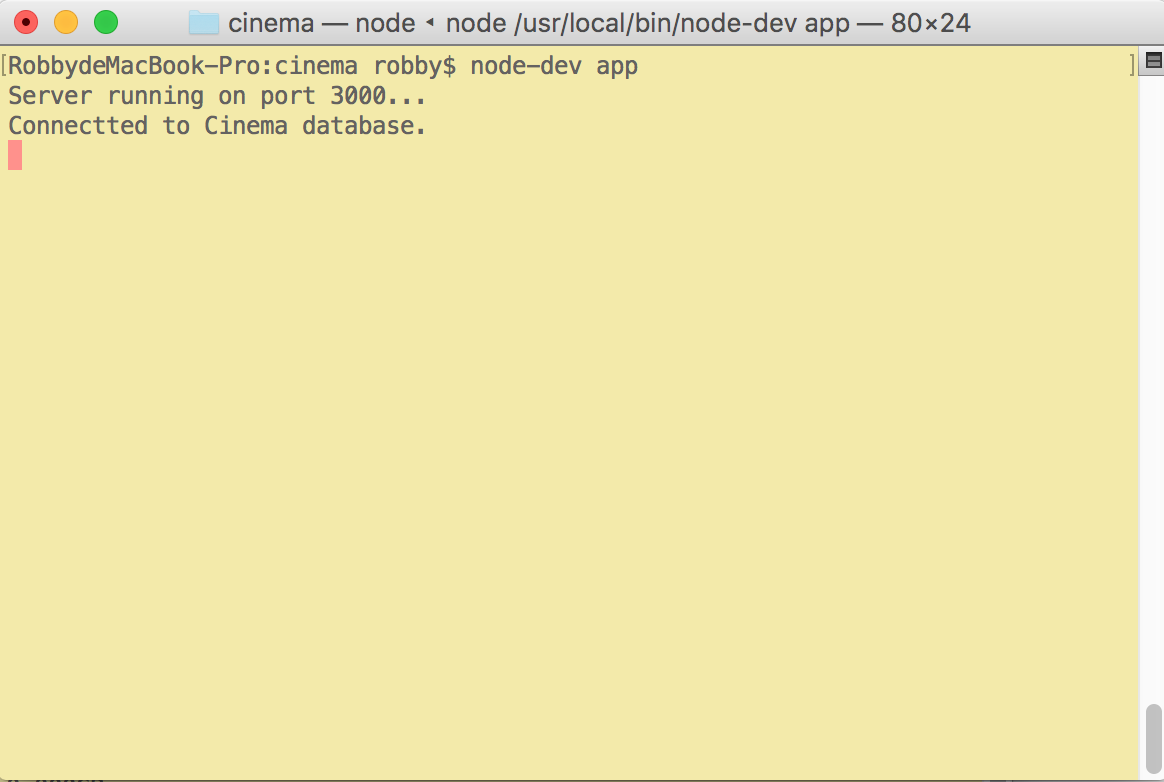
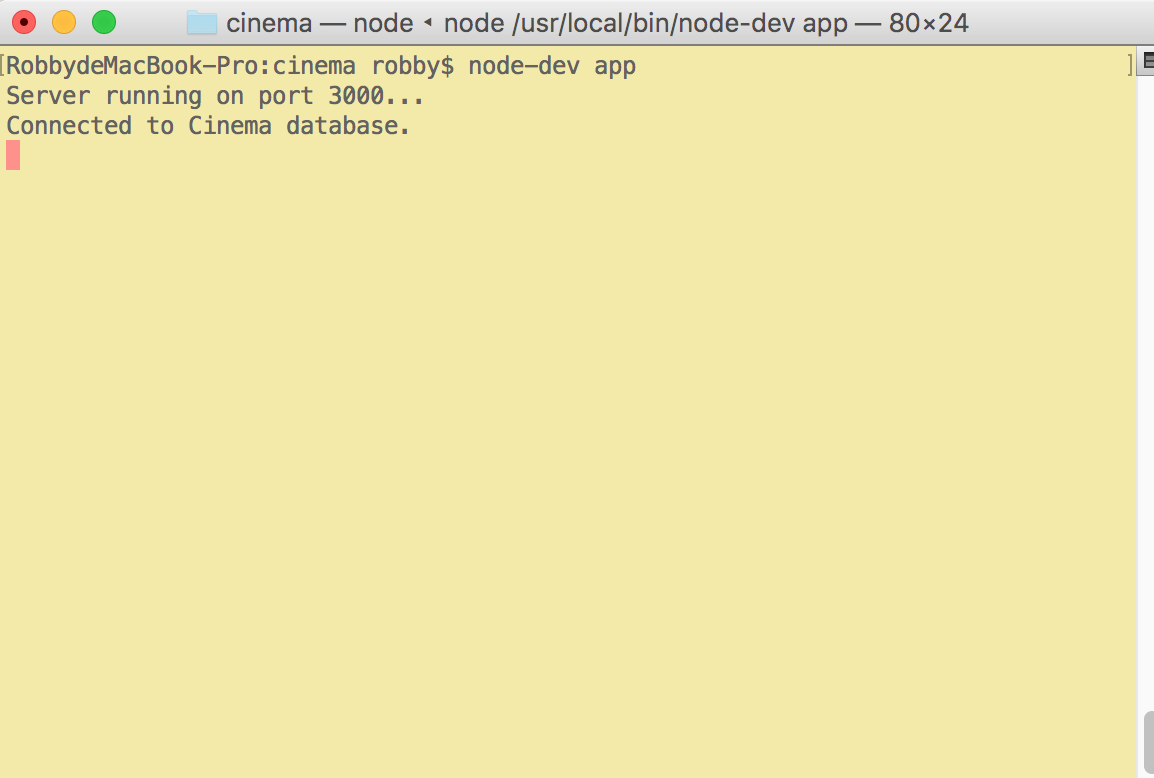
update

Changed region(s): [[0.0, 0.0, 0.8423, 0.2159], [0.0, 0.0617, 1.0, 1.0]]

diff --git a/app.js b/app.js
@@ -15,7 +15,7 @@ Movie = require('./models/movies.js');
 var db = mongoose.connection;
 db.on('error', console.error);
 db.once('open', function(){
-  console.log('Connectted to Cinema database.');
+  console.log('Connected to Cinema database.');
 });
 
 mongoose.connect("mongodb://localhost/cinema");
